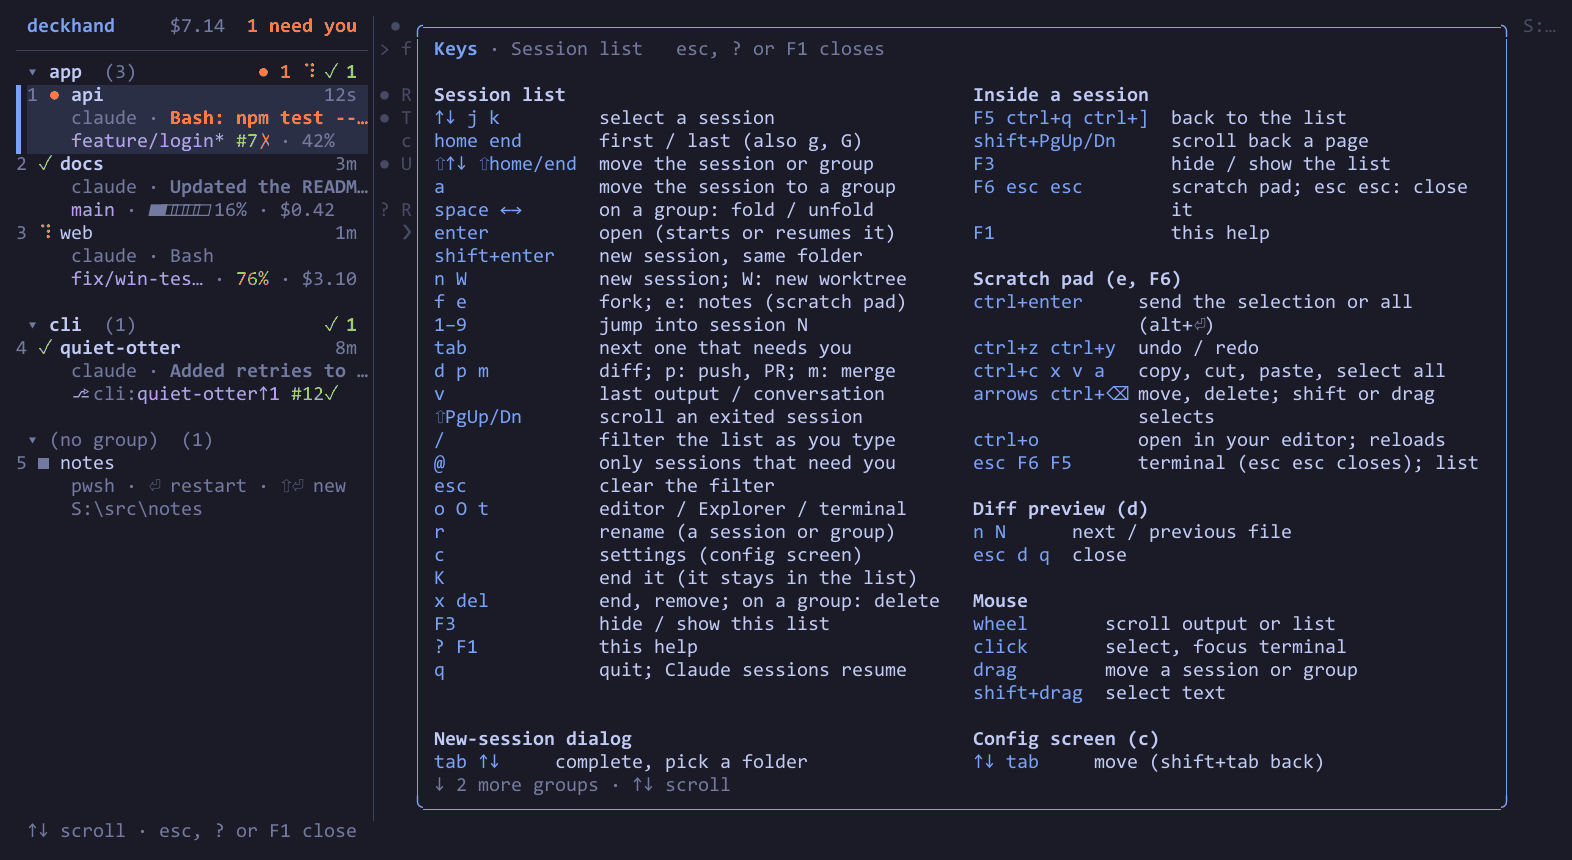
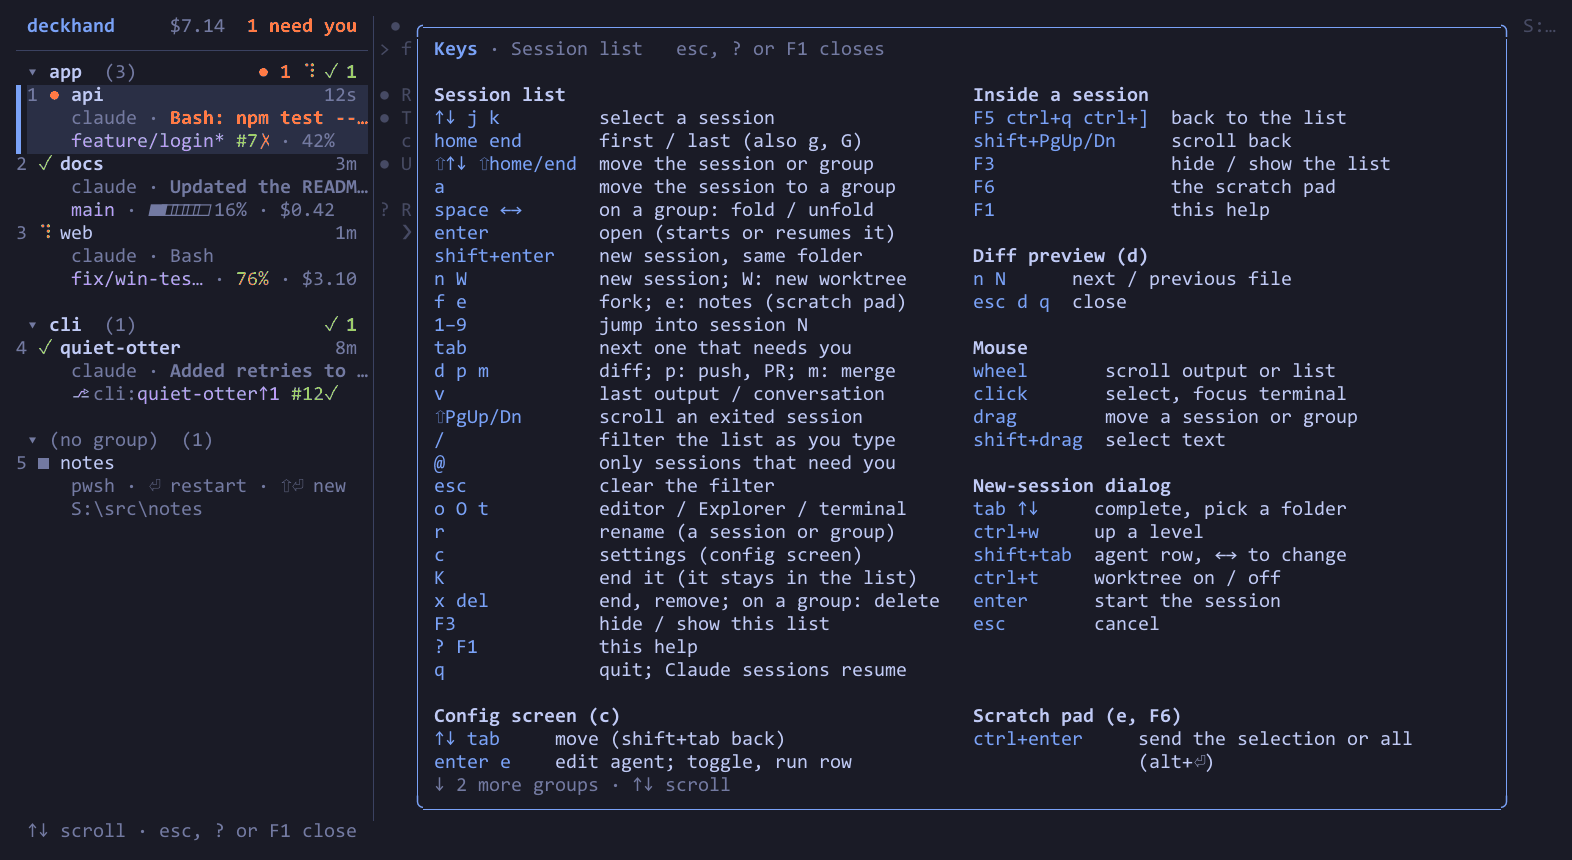
Keep the help's first page as it was with the pad's keys
TestE2EHelp failed on CI: at 120×32, the help opened from the list no
longer reached the New-session dialog group. The Scratch pad group moves
to the end, and the session's F6 entry is one line: "scroll back a page"
becomes "scroll back" so the group stays as tall as before.

diff --git a/help.go b/help.go
@@ -92,23 +92,12 @@ var helpGroups = []helpGroup{
 	}},
 	{helpTerminal, []helpEntry{
 		{keys: "F5 ctrl+q ctrl+]", desc: "back to the list", match: []string{defaultBackKey, "ctrl+q", "ctrl+]"}, footer: "F5 list"},
-		{keys: "shift+PgUp/Dn", desc: "scroll back a page", match: []string{"shift+pgup", "shift+pgdown"}},
+		{keys: "shift+PgUp/Dn", desc: "scroll back", match: []string{"shift+pgup", "shift+pgdown"}},
 		{keys: "F3", desc: "hide / show the list", match: []string{defaultToggleKey}, footer: "F3 hide list"},
 		// [pad] key; withListKeys shows the configured one. esc closes the
 		// pad right after leaving it (padTerminalKey).
-		{keys: "F6 esc esc", desc: "scratch pad; esc esc: close it", match: []string{defaultPadKey, "esc"}, footer: "F6 notes"},
+		{keys: "F6", desc: "the scratch pad", match: []string{defaultPadKey, "esc"}, footer: "F6 notes"},
 		{keys: "F1", desc: "this help", match: []string{"f1"}, footer: "F1 help"},
-	}},
-	// padKey and the editor's editKey and changeKey (padeditor.go).
-	{helpPad, []helpEntry{
-		{keys: "ctrl+enter", desc: "send the selection or all (alt+⏎)", match: []string{"ctrl+enter", "alt+enter", "ctrl+j"}, footer: "ctrl+enter send", short: "^⏎ send"},
-		{keys: "ctrl+z ctrl+y", desc: "undo / redo", match: []string{"ctrl+z", "ctrl+y", "ctrl+shift+z"}, footer: "ctrl+z undo", short: "-"},
-		{keys: "ctrl+c x v a", desc: "copy, cut, paste, select all", match: []string{"ctrl+c", "ctrl+insert", "ctrl+x", "shift+delete", "ctrl+v", "shift+insert", "ctrl+a"}},
-		{keys: "arrows ctrl+⌫", desc: "move, delete; shift or drag selects", match: []string{
-			"left", "right", "up", "down", "home", "end", "pgup", "pgdown", "ctrl+left", "ctrl+right", "ctrl+home", "ctrl+end",
-			"enter", "shift+enter", "tab", "backspace", "shift+backspace", "ctrl+h", "delete", "ctrl+backspace", "alt+backspace", "ctrl+w", "ctrl+delete", "alt+delete"}},
-		{keys: "ctrl+o", desc: "open in your editor; reloads", match: []string{"ctrl+o"}, footer: "ctrl+o editor", short: "-"},
-		{keys: "esc F6 F5", desc: "terminal (esc esc closes); list", match: []string{"esc", defaultPadKey, defaultBackKey, "ctrl+q", "ctrl+]"}, footer: "esc terminal · F5 list", short: "esc · F5"},
 	}},
 	{helpDiff, []helpEntry{
 		{keys: "n N", desc: "next / previous file", match: []string{"n", "N", "up", "k", "down", "j", "pgup", "shift+pgup", "pgdown", "shift+pgdown", "space", "home", "g", "end", "G"}},
@@ -148,6 +137,19 @@ var helpGroups = []helpGroup{
 		{keys: "↑↓ enter", desc: "picker: choose, pick", match: []string{"up", "down", "tab", "shift+tab", "enter"}, footer: "↑↓ choose · enter pick", when: hintPicker},
 		{keys: "esc", desc: "picker: back to the form", match: []string{"esc"}, footer: "esc back", when: hintPicker},
 		{keys: "k x esc", desc: "test: keep, discard, not now", match: []string{"k", "x", "esc"}, footer: "k keep it as a session · x discard it · esc not now", when: hintTest},
+	}},
+	// The scratch pad: padKey and the editor's editKey and changeKey
+	// (padeditor.go). Last, so the groups before it still show on the
+	// first page of the help opened from the list.
+	{helpPad, []helpEntry{
+		{keys: "ctrl+enter", desc: "send the selection or all (alt+⏎)", match: []string{"ctrl+enter", "alt+enter", "ctrl+j"}, footer: "ctrl+enter send", short: "^⏎ send"},
+		{keys: "ctrl+z ctrl+y", desc: "undo / redo", match: []string{"ctrl+z", "ctrl+y", "ctrl+shift+z"}, footer: "ctrl+z undo", short: "-"},
+		{keys: "ctrl+c x v a", desc: "copy, cut, paste, select all", match: []string{"ctrl+c", "ctrl+insert", "ctrl+x", "shift+delete", "ctrl+v", "shift+insert", "ctrl+a"}},
+		{keys: "arrows ctrl+⌫", desc: "move, delete; shift or drag selects", match: []string{
+			"left", "right", "up", "down", "home", "end", "pgup", "pgdown", "ctrl+left", "ctrl+right", "ctrl+home", "ctrl+end",
+			"enter", "shift+enter", "tab", "backspace", "shift+backspace", "ctrl+h", "delete", "ctrl+backspace", "alt+backspace", "ctrl+w", "ctrl+delete", "alt+delete"}},
+		{keys: "ctrl+o", desc: "open in your editor; reloads", match: []string{"ctrl+o"}, footer: "ctrl+o editor", short: "-"},
+		{keys: "esc F6 F5", desc: "terminal (esc esc closes); list", match: []string{"esc", defaultPadKey, defaultBackKey, "ctrl+q", "ctrl+]"}, footer: "esc terminal · F5 list", short: "esc · F5"},
 	}},
 }
 
